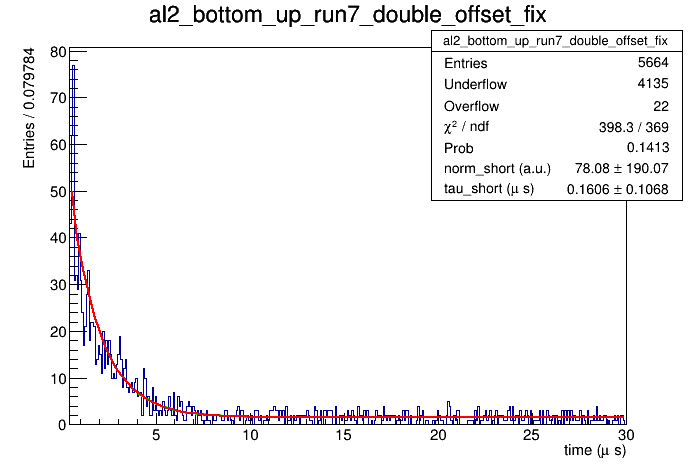
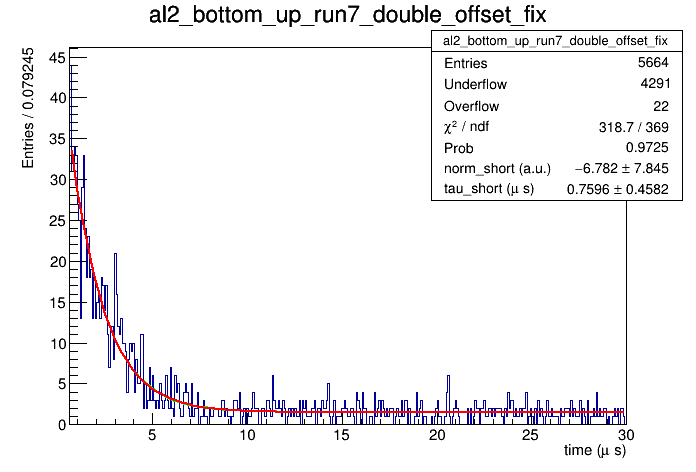
try fit

diff --git a/create_histo.cpp b/create_histo.cpp
@@ -20,7 +20,7 @@ TH1D* fill_histo(TFile* tree_file, string name, vector<double> ranges, string ty
     }
     histo->GetXaxis()->SetTitle("time (#mu s)");
     histo->GetYaxis()->SetTitle(&("Entries / "+to_string(histo->GetBinWidth(1)))[0]);
-    cout << "Filled histogram" <<endl;
+    //cout << "Filled histogram" <<endl;
     return histo;
 }
 
@@ -36,13 +36,13 @@ TH1D* fit_exp(TH1D* histo, vector<double> infos, string type, ofstream & fit_fil
         exp_tot->SetParNames("norm_short (a.u.)", "tau_short (#mu s)", "norm_long (a.u.)", "tau_long (#mu s)", "offset (a.u.)");
         exp_tot->SetParameter(0, infos[0]);
         exp_tot->SetParameter(1, infos[1]);
-        //exp_tot->SetParLimits(0, 0, infos[1]+pow(10, 3));
+        //exp_tot->SetParLimits(0, 0, infos[1]+pow(10, 5));
         //exp_tot->SetParLimits(1, infos[1]*3/4, infos[1]*4/3);
         if (type.find("double") != string::npos){
             exp_long = new TF1("exp_long", "[0]*exp(-x/[1])+[2]", infos[8], infos[7]);
             exp_long->SetParNames("norm_long (a.u.)", "tau_long (#mu s)", "offset_long (a.u.)");
             exp_long->SetParameters(infos[2], infos[3], infos[4]);
-            //exp_long->SetParLimits(0, 0, infos[2]+pow(10, 3));
+            //exp_long->SetParLimits(0, 0, infos[2]+pow(10, 6));
             //exp_long->SetParLimits(1, infos[3]*3/4, infos[3]*4/3);
 
             exp_long->SetLineColor(kGreen);
@@ -60,7 +60,7 @@ TH1D* fit_exp(TH1D* histo, vector<double> infos, string type, ofstream & fit_fil
             exp_tot->SetParameter(2, infos[2]);
             exp_tot->SetParameter(3, infos[3]);
             exp_tot->SetParameter(4, infos[4]);
-            //exp_tot->SetParLimits(2, 0, infos[2]+pow(10, 3));
+            //exp_tot->SetParLimits(2, 0, infos[2]+pow(10, 6));
             //exp_tot->SetParLimits(3, infos[3]*3/4, infos[3]*4/3);
         }
     }
@@ -166,13 +166,26 @@ void create_histo(){
     // name of the material |
     // norm exp_short | tau exp_short | norm exp_long | tau exp_long | offset exp |
     // number of bins | range inf histo | range sup histo | start exp_long
-    map <string, vector<double>>  materials_dict = {
+    map <string, vector<double>>  materials_dict_pos = {
         {"fe", {norm_pos/1.8, 0.201, norm_pos, 2.197, 10,
                      n_bin, 0.15, sup, 2}},
         /*{"pb", {100, 0.88, 200, 2.2, 10,
                      n_bin, inf, sup, 5}},*/
         {"al", {norm_pos/1.8, 0.88, norm_pos, 2.197, 10,
-                     n_bin, 0.4, sup, 4}},
+                     n_bin, 0.6, sup, 4}},
+        /*{"nacl", {100, 0.88, 200, 2.2, 10,
+                     n_bin, inf, sup, 5}},
+        {"mag", {100, 0.88, 200, 2.2, 10,
+                     n_bin, inf, sup, 5}},*/
+    };
+
+    map <string, vector<double>>  materials_dict_tot = {
+        {"fe", {norm_pos/1.8, 0.201, norm_pos, 2.197, 10,
+                     n_bin, 0.15, sup, 2}},
+        /*{"pb", {100, 0.88, 200, 2.2, 10,
+                     n_bin, inf, sup, 5}},*/
+        {"al", {norm_pos/1.8, 0.88, norm_pos, 2.197, 10,
+                     n_bin, 0.6, sup, 4}},
         /*{"nacl", {100, 0.88, 200, 2.2, 10,
                      n_bin, inf, sup, 5}},
         {"mag", {100, 0.88, 200, 2.2, 10,
@@ -202,18 +215,18 @@ void create_histo(){
         };
 
         for(list<string>::const_iterator name = datasets.begin(); name != datasets.end(); ++name){
-            cout << " \n Processing : " << *name << endl;
+            //cout << " \n Processing : " << *name << endl;
             string material = "";
-            for (const auto & elem : materials_dict){
+            for (const auto & elem : materials_dict_pos){
                 const auto mat = elem.first;
                 if (name->find(mat) != string::npos){
                     material = mat;
                 }
             }
             if (material != ""){
-                histo = fill_histo(tree_file, *name, materials_dict[material], *type);
+                histo = fill_histo(tree_file, *name, materials_dict_pos[material], *type);
                 gROOT->SetBatch(kTRUE);
-                histo = fit_exp(histo, materials_dict[material], *type, fit_file, "Q L R");
+                histo = fit_exp(histo, materials_dict_pos[material], *type, fit_file, "Q L R");
                 histos_material[material].push_back(histo);
             }
         }
@@ -236,7 +249,7 @@ void create_histo(){
                         }
                     }
                     histos_p->SetNameTitle(&(material+"_"+position+*type)[0], &(material+"_"+position+*type)[0]);
-                    histos_p = fit_exp(histos_p, materials_dict[material], *type, fit_file, "L R");
+                    histos_p = fit_exp(histos_p, materials_dict_pos[material], *type, fit_file, "L R");
                     histos_pos[position]=histos_p;
                 }
                 //gROOT->SetBatch(kTRUE);
@@ -244,7 +257,7 @@ void create_histo(){
                 histo_tot = (TH1D*)histos_pos["up"]->Clone();
                 histo_tot->Add(histos_pos["down"]);
                 histo_tot->SetNameTitle(&(material+"_tot"+*type)[0], &(material+"_tot"+*type)[0]);
-                histo_tot = fit_exp(histo_tot, materials_dict[material], *type, fit_file, "L R");
+                histo_tot = fit_exp(histo_tot, materials_dict_tot[material], *type, fit_file, "L R");
             }
         }
         histo_file->Close();
